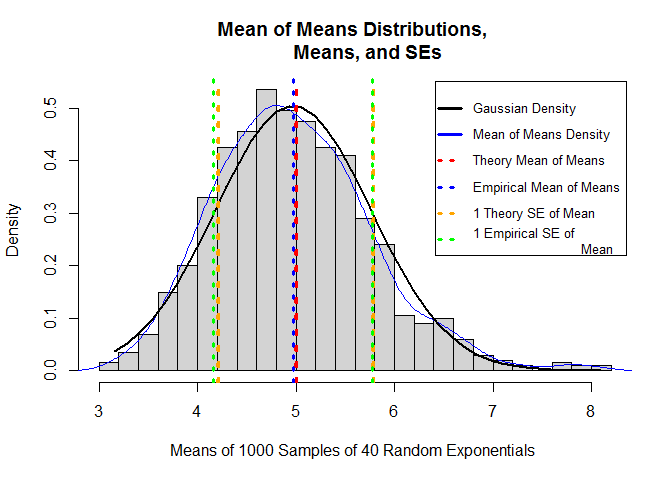
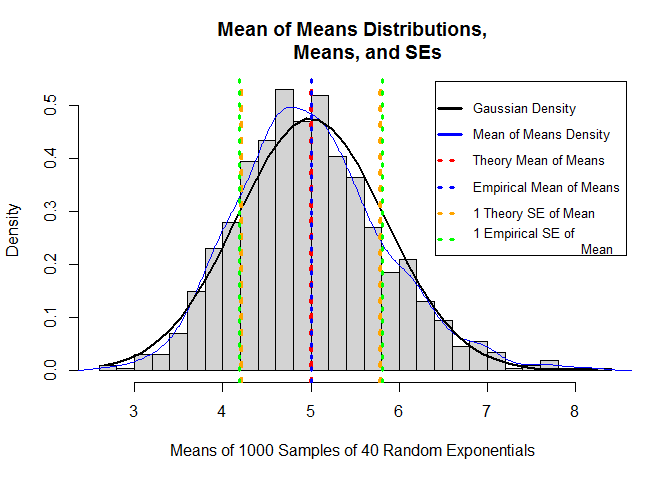
update 2nd chart

diff --git a/README.html b/README.html
@@ -73,14 +73,7 @@ img {
 <p>The average mean is centered at 5.0365828. Theory, for this lambda, indicated it would be centered at 5.</p>
 <p>The standard error of the mean is 0.7883693. Theory, for this lambda, indicated it would be 0.7905694.</p>
 <p>Note that the distribution that was generated approximates the Gaussian distribution, which is what is expected when sample statistics are indeed unbiased estimators.</p>
-<pre><code>## Installing package into 'C:/Users/Russ/Documents/R/win-library/3.2'
-## (as 'lib' is unspecified)</code></pre>
-<pre><code>## package 'plotrix' successfully unpacked and MD5 sums checked
-## 
-## The downloaded binary packages are in
-##  C:\Users\Russ\AppData\Local\Temp\Rtmp6pnC8M\downloaded_packages</code></pre>
[1 lines of base64/hex data omitted]
-<pre><code>## [1] &quot;#&quot;</code></pre>
[1 lines of base64/hex data omitted]
 </div>
 <div id="appendix" class="section level2">
 <h2>Appendix</h2>
@@ -145,33 +138,19 @@ a_t&lt;-data.frame(a_t)
 colnames(a_t)&lt;-c(&quot;Theoretical&quot;,&quot;Empirical&quot;)
 rownames(a_t)&lt;-c(&quot;Mean&quot;,&quot;SE&quot;)
 
-hist(a_h,breaks=20,col=&quot;light gray&quot;,prob=TRUE,main=&quot;Mean of Means Distributions, 
-     Means, and SEs&quot;,
-     xlab=&quot;Means of 1000 Samples of 40 Random Exponentials &quot;) 
+hist(h,breaks=20,col=&quot;light gray&quot;,prob=TRUE,main=&quot;Mean of Means Distributions, Means, and SEs&quot;,xlab=&quot;Means of 1000 Samples of 40 Random Exponentials &quot;) 
 lines(density(a_h),col=&quot;blue&quot;)
-legend(&quot;topright&quot;,legend=c(&quot;Gaussian Density&quot;, &quot;Mean of Means Density&quot;, 
-                           &quot;Theory Mean of Means&quot;, 
-                           &quot;Empirical Mean of Means&quot;,&quot;1 Theory SE of Mean&quot;,
-                           &quot;1 Empirical SE of 
-                           Mean&quot;),lty=c(1,1,3,3,3,3),lwd=c(3,3,3,3,3,3),
-                            col=c(&quot;black&quot;,&quot;blue&quot;,
-                           &quot;red&quot;, &quot;blue&quot;,&quot;orange&quot;,&quot;green&quot;),
-                            merge=TRUE,inset=.01,cex=.8,adj=0) 
-
+legend(&quot;topright&quot;,legend=c(&quot;Gaussian Density&quot;, &quot;Mean of Means Density&quot;, &quot;Theory Mean of Means&quot;, &quot;Empirical Mean of Means&quot;,&quot;1 Theory SE of Mean&quot;, &quot;1 Empirical SE of Mean&quot;),lty=c(1,1,3,3,3,3),lwd=c(3,3,3,3,3,3), col=c(&quot;black&quot;,&quot;blue&quot;,&quot;red&quot;, &quot;blue&quot;,&quot;orange&quot;,&quot;green&quot;),merge=TRUE,inset=.01,cex=.8,adj=0) 
 a_xfit&lt;-seq(min(a_h),max(a_h),length=40) 
     a_yfit&lt;-dnorm(a_xfit,mean=mean(a_h),sd=sd(a_h))
 lines(a_xfit, a_yfit, col=&quot;black&quot;, lwd=2)
-abline(v=a_exp_mean_of_means,col=&quot;red&quot;, lwd=4, lty=3)
-abline(v=a_emp_mean_of_means,col=&quot;blue&quot;, lwd=3, lty=3)
-abline(v=a_exp_mean_of_means-exp_SE_of_means,col=&quot;orange&quot;, lwd=4, lty=3)
-abline(v=a_exp_mean_of_means+exp_SE_of_means,col=&quot;orange&quot;, lwd=4, lty=3)
-abline(v=a_emp_mean_of_means-emp_SE_of_means,col=&quot;green&quot;, lwd=3, lty=3)
-abline(v=a_emp_mean_of_means+emp_SE_of_means,col=&quot;green&quot;, lwd=3, lty=3)</code></pre>
[1 lines of base64/hex data omitted]
-<pre class="r"><code>a_t</code></pre>
-<pre><code>##      Theoretical Empirical
-## Mean   5.0000000  4.991819
-## SE     0.7905694  0.746021</code></pre>
+abline(v=exp_mean_of_means,col=&quot;red&quot;, lwd=4, lty=3)
+abline(v=emp_mean_of_means,col=&quot;blue&quot;, lwd=3, lty=3)
+abline(v=exp_mean_of_means-exp_SE_of_means,col=&quot;orange&quot;, lwd=4, lty=3)
+abline(v=exp_mean_of_means+exp_SE_of_means,col=&quot;orange&quot;, lwd=4, lty=3)
+abline(v=emp_mean_of_means-emp_SE_of_means,col=&quot;green&quot;, lwd=3, lty=3)
+abline(v=emp_mean_of_means+emp_SE_of_means,col=&quot;green&quot;, lwd=3, lty=3)</code></pre>
[1 lines of base64/hex data omitted]
 <p>Note: Code for this document is available at <a href="https://github.com/robbinsr/validatingRfunctionBehavior" class="uri">https://github.com/robbinsr/validatingRfunctionBehavior</a>.</p>
 </div>
 </div>

diff --git a/README.md b/README.md
@@ -16,25 +16,10 @@ Theory, for this lambda, indicated it would be 0.7905694.
 Note that the distribution that was generated approximates the Gaussian distribution, which is what is expected when sample statistics are indeed unbiased estimators.
 
 
-```
-## Installing package into 'C:/Users/Russ/Documents/R/win-library/3.2'
-## (as 'lib' is unspecified)
-```
-
-```
-## package 'plotrix' successfully unpacked and MD5 sums checked
-## 
-## The downloaded binary packages are in
-## 	C:\Users\Russ\AppData\Local\Temp\Rtmp6pnC8M\downloaded_packages
-```
 
 
 
-![](README_files/figure-html/unnamed-chunk-1-1.png) 
-
-```
-## [1] "#"
-```
+![](README_files/figure-html/unnamed-chunk-2-1.png) 
 
 ##Appendix 
 
@@ -106,40 +91,20 @@ a_t<-data.frame(a_t)
 colnames(a_t)<-c("Theoretical","Empirical")
 rownames(a_t)<-c("Mean","SE")
 
-hist(a_h,breaks=20,col="light gray",prob=TRUE,main="Mean of Means Distributions, 
-     Means, and SEs",
-     xlab="Means of 1000 Samples of 40 Random Exponentials ") 
+hist(h,breaks=20,col="light gray",prob=TRUE,main="Mean of Means Distributions, Means, and SEs",xlab="Means of 1000 Samples of 40 Random Exponentials ") 
 lines(density(a_h),col="blue")
-legend("topright",legend=c("Gaussian Density", "Mean of Means Density", 
-                           "Theory Mean of Means", 
-                           "Empirical Mean of Means","1 Theory SE of Mean",
-                           "1 Empirical SE of 
-                           Mean"),lty=c(1,1,3,3,3,3),lwd=c(3,3,3,3,3,3),
-                            col=c("black","blue",
-                           "red", "blue","orange","green"),
-                            merge=TRUE,inset=.01,cex=.8,adj=0) 
-
+legend("topright",legend=c("Gaussian Density", "Mean of Means Density", "Theory Mean of Means", "Empirical Mean of Means","1 Theory SE of Mean", "1 Empirical SE of Mean"),lty=c(1,1,3,3,3,3),lwd=c(3,3,3,3,3,3), col=c("black","blue","red", "blue","orange","green"),merge=TRUE,inset=.01,cex=.8,adj=0) 
 a_xfit<-seq(min(a_h),max(a_h),length=40) 
     a_yfit<-dnorm(a_xfit,mean=mean(a_h),sd=sd(a_h))
 lines(a_xfit, a_yfit, col="black", lwd=2)
-abline(v=a_exp_mean_of_means,col="red", lwd=4, lty=3)
-abline(v=a_emp_mean_of_means,col="blue", lwd=3, lty=3)
-abline(v=a_exp_mean_of_means-exp_SE_of_means,col="orange", lwd=4, lty=3)
-abline(v=a_exp_mean_of_means+exp_SE_of_means,col="orange", lwd=4, lty=3)
-abline(v=a_emp_mean_of_means-emp_SE_of_means,col="green", lwd=3, lty=3)
-abline(v=a_emp_mean_of_means+emp_SE_of_means,col="green", lwd=3, lty=3)
+abline(v=exp_mean_of_means,col="red", lwd=4, lty=3)
+abline(v=emp_mean_of_means,col="blue", lwd=3, lty=3)
+abline(v=exp_mean_of_means-exp_SE_of_means,col="orange", lwd=4, lty=3)
+abline(v=exp_mean_of_means+exp_SE_of_means,col="orange", lwd=4, lty=3)
+abline(v=emp_mean_of_means-emp_SE_of_means,col="green", lwd=3, lty=3)
+abline(v=emp_mean_of_means+emp_SE_of_means,col="green", lwd=3, lty=3)
 ```
 
-![](README_files/figure-html/unnamed-chunk-5-1.png) 
-
-```r
-a_t
-```
-
-```
-##      Theoretical Empirical
-## Mean   5.0000000  4.991819
-## SE     0.7905694  0.746021
-```
+![](README_files/figure-html/unnamed-chunk-6-1.png) 
 
 Note: Code for this document is available at https://github.com/robbinsr/validatingRfunctionBehavior.
